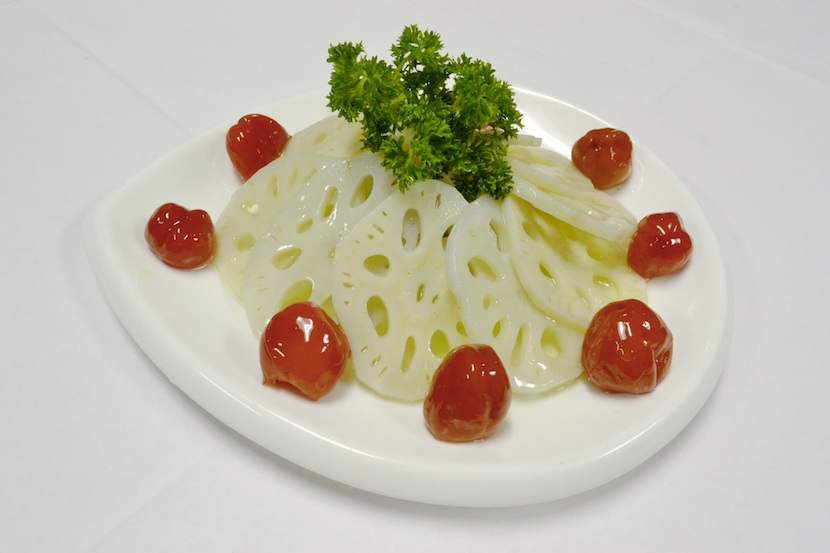
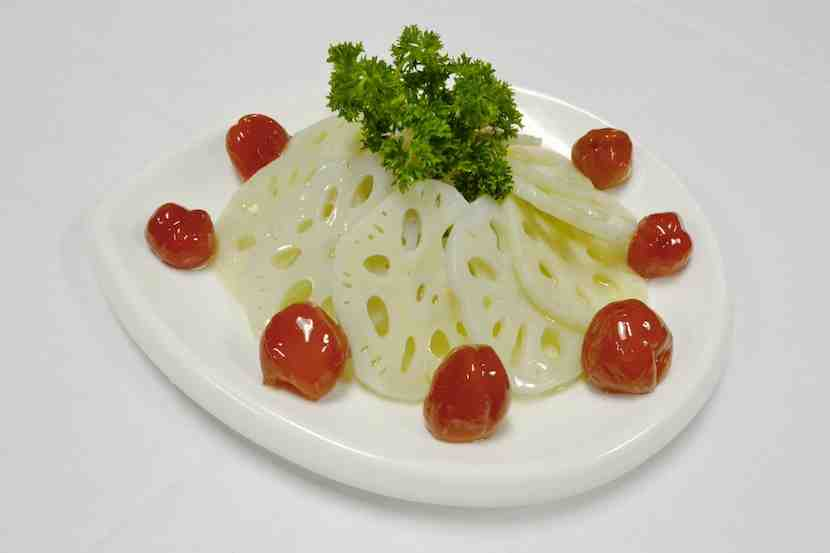
compress images

diff --git a/css/style.css b/css/style.css
@@ -77,7 +77,7 @@ html, body {
 	background-size:cover;
 }
 .carousel .carousel-inner .bg1 {
-	background-image:url(../img/slide1.png);
+	background-image:url(../img/slide1.jpg);
 	background-position: center top; 
 }
 .carousel .carousel-inner .bg2 {
